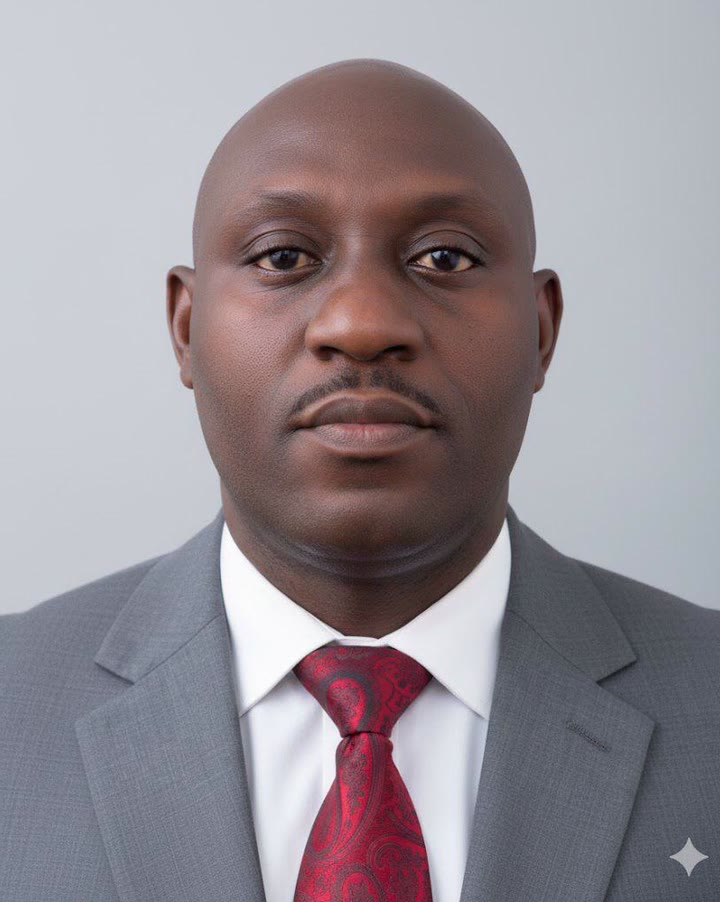
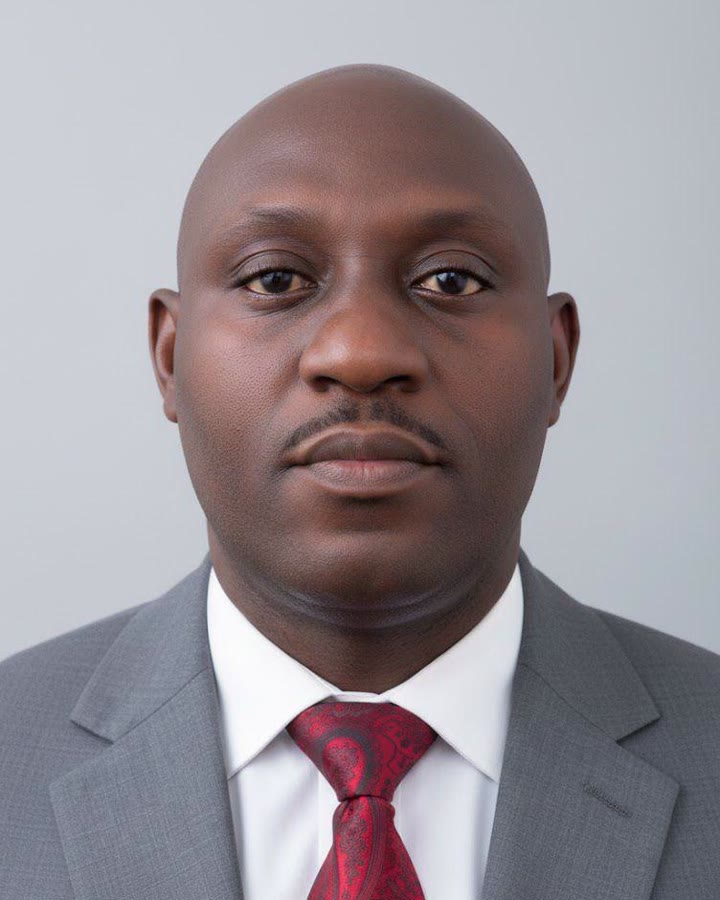
Tap card: re-crop portrait and fade it into the card
Claude-Session: https://claude.ai/code/session_01TUm9rJy56eVq6WJNpC9dRW

diff --git a/tap-card/index.html b/tap-card/index.html
@@ -104,10 +104,11 @@
   .portrait img, .portrait video{
     width:100%; height:100%; object-fit:cover; display:block;
   }
-  .portrait::after{                    /* seat the image into the card */
-    content:""; position:absolute; left:0; right:0; bottom:0; height:40%;
-    background:linear-gradient(180deg, transparent 55%, rgba(5,13,36,0.45));
-    pointer-events:none;
+  .portrait{                           /* melt the portrait into the card */
+    -webkit-mask-image:linear-gradient(180deg, #000 62%, transparent 100%);
+            mask-image:linear-gradient(180deg, #000 62%, transparent 100%);
+    background:transparent;
+    margin-bottom:-14px;
   }
 
   .monogram[hidden]{ display:none; }
